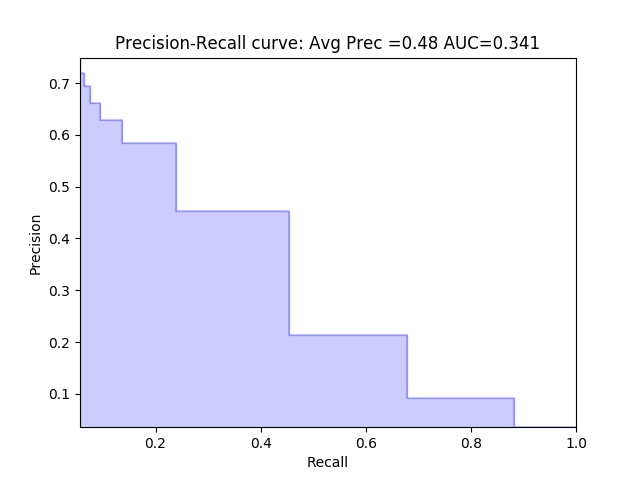
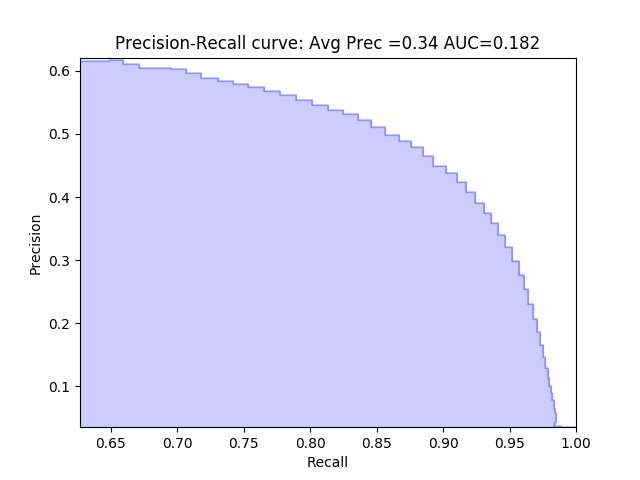
Color background modeling working in adaptive case

diff --git a/config/highway_background.py b/config/highway_background.py
@@ -2,7 +2,7 @@
 dataset_name                 = 'highway'                        # Dataset name
 dataset_path                 = 'datasets/highway/input'         # Dataset path
 gt_path                      = 'datasets/highway/groundtruth'   # Ground truth path
-results_path                 = 'datasets/highway/results/color'
+results_path                 = 'datasets/highway/results/color_adaptive'
 
 # Input Images
 nr_images                    = 300
@@ -12,15 +12,15 @@ gt_image_type                = 'png'        # Ground truth image type
 result_image_type            = 'png'
 
 # Background Modelling
-alpha                         = 2
+alpha                         = 6
 rho                           = 0.21
 
-modelling_method              = 'gaussian'  # adaptive instead
+modelling_method              = 'adaptive'  # adaptive instead
 color_images                  = True        # Use RGB, YUV color channels
 color_space                   = "RGB"       # RGB, HSV
-evaluate_foreground           = True
+evaluate_foreground           = False
 evaluate_alpha_range          = [0, 6]
-evaluate_alpha_values         = 10          # number of alpha values to evaluate
+evaluate_alpha_values         = 60          # number of alpha values to evaluate
 evaluate_rho_range            = [0, 1]      # range of rho values
 evaluate_rho_values           = 20          # number of rho values to evaluate
 find_best_parameters          = False

diff --git a/tools/background_modeling.py b/tools/background_modeling.py
@@ -115,11 +115,14 @@ def adaptive_foreground_estimation_color(img, mean, variance, alpha, rho, color_
     foreground = (img_norm[:, :, 0] >= threshold[:, :, 0]) | \
                  (img_norm[:, :, 1] >= threshold[:, :, 1]) | \
                  (img_norm[:, :, 2] >= threshold[:, :, 2])
+    foreground = np.expand_dims(foreground, axis=-1)
     back = (1 - foreground)
     img_background = img * back
     # The mean for the Background pixels (back) is adapted, the mean for the foreground pixels remains the same
     mean = (rho * img_background + (1 - rho) * mean) * back + mean * (1 - back)
     # The variance for the Background pixels (back) is adapted, the variance for the foreground pixels remains the same
 
-    variance = (rho * np.square(img_background - mean) + (1 - rho) * (variance)) * back + (variance) * (1 - back)
+    variance = (rho * np.square(img_background - mean) + (1 - rho) * variance) * back + variance * (1 - back)
+
+    foreground = np.take(foreground, indices=0, axis=-1)
     return foreground, mean, variance
